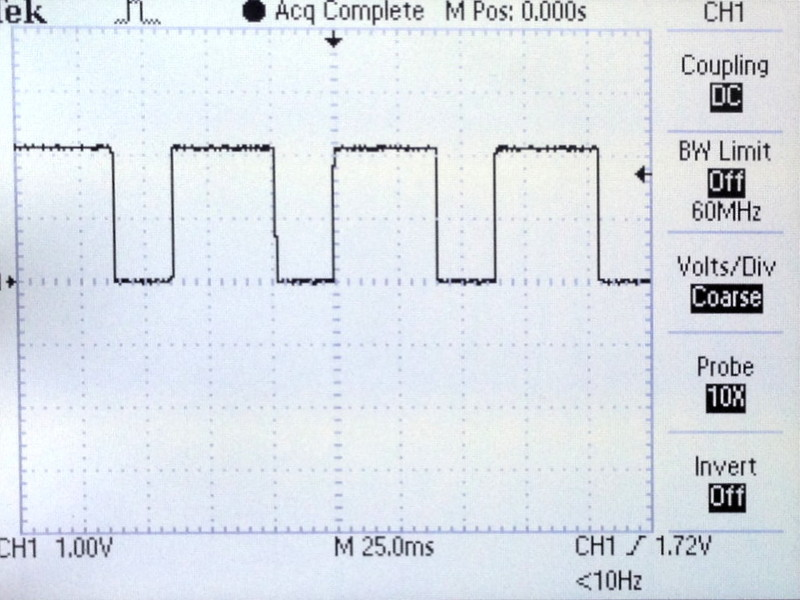
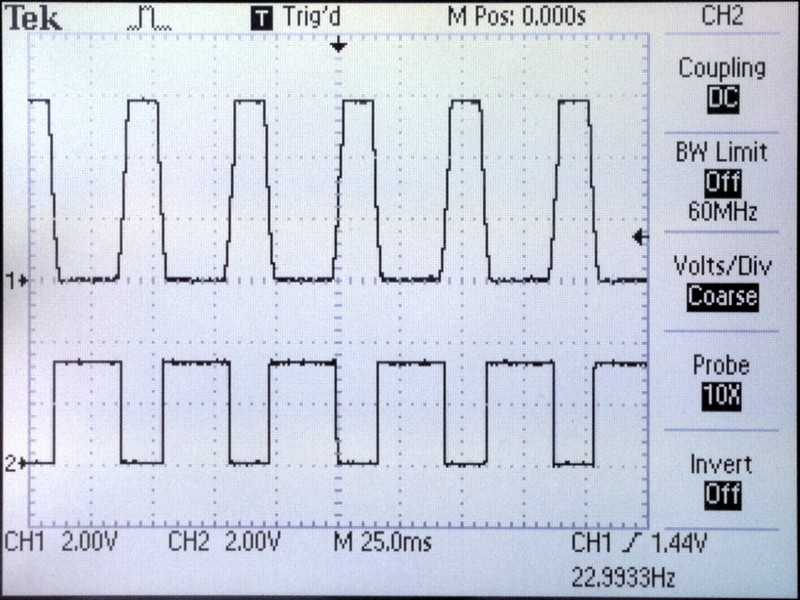
replaced zener with crd

diff --git a/docs/Testing.md b/docs/Testing.md
@@ -8,7 +8,7 @@ Here is what the voltage looks like once it's failing on the output side of the 
 
 <img src="images/power_starts_failing.jpeg" width="200">
 
-The two pictures below show the signal processing used to count the half waves. The first image shows the signal at the gate of the transistor after being rectified by the diode. And the second one shows the clean, inverted signal at the drain/input into timer/counter 0.
+The two pictures below show the signal processing used to count the half waves. The first image shows the signal after being rectified by the diode. And the second one shows the signal at the gate (channel 1) and drain (channel 2) of the transistor. You can see the **C**urrent **R**egulating **D**iode (CRD) pinching off the excess voltage at around 6 Volts. Channel 2 shows the cleaned, voltage adjusted, inverted signal feed into timer/counter 0.
 
 <img src="images/signal_half_waves.jpeg" width="200">
 
